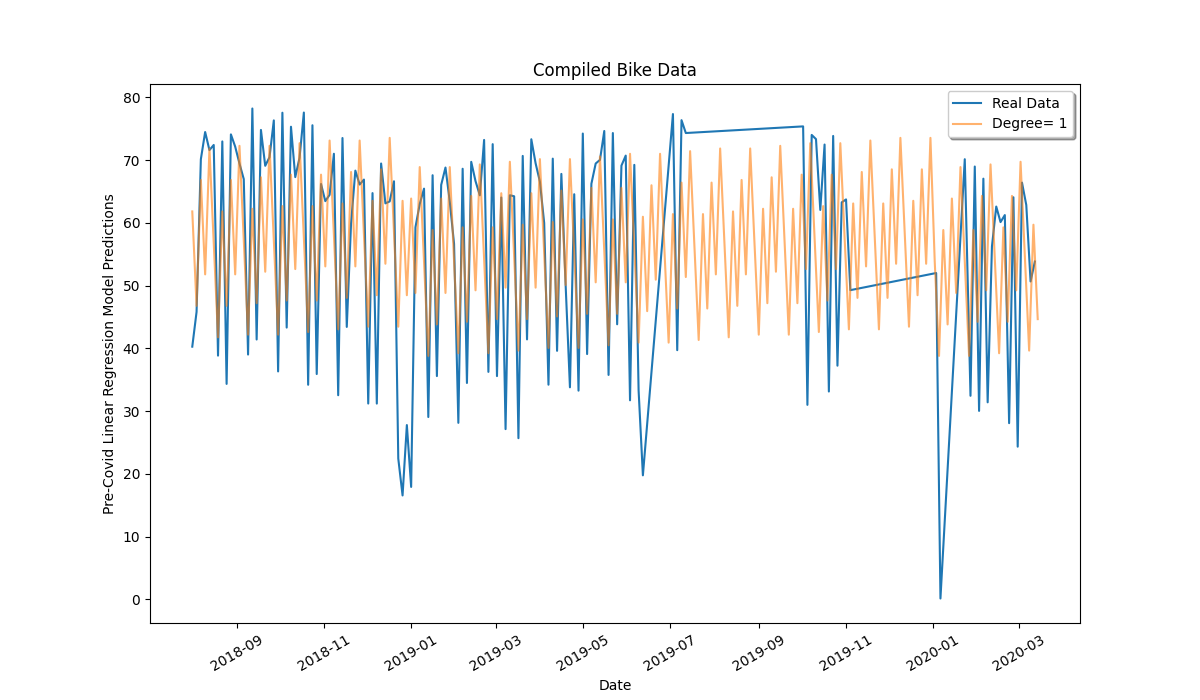
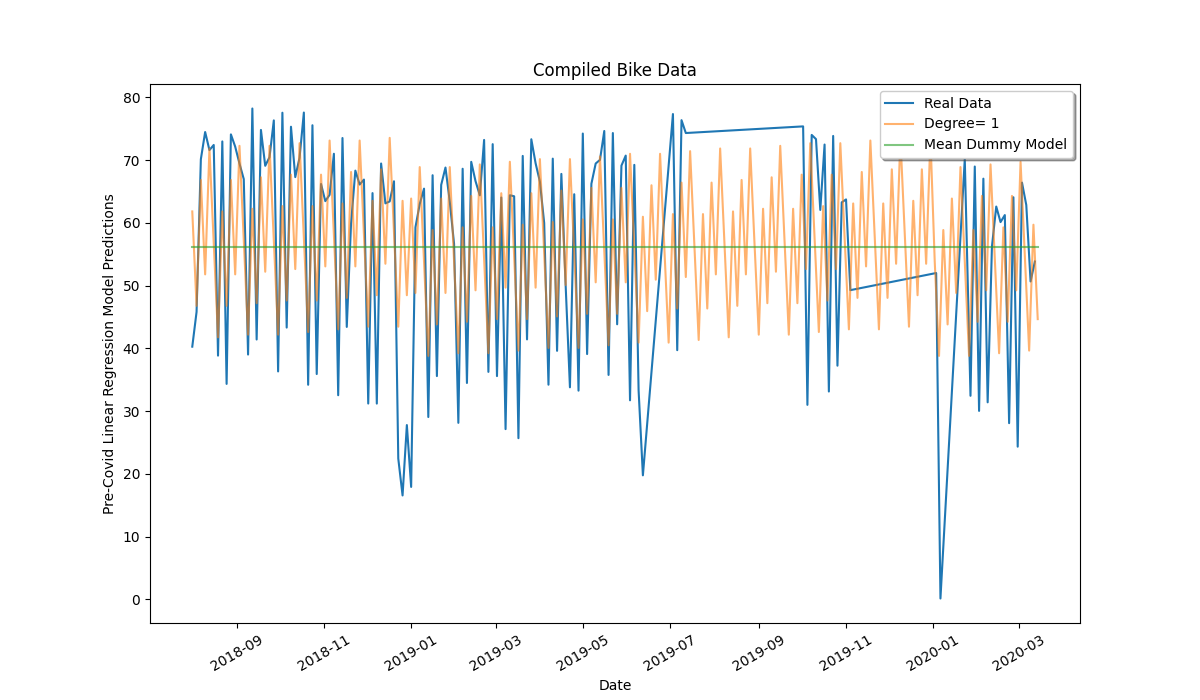
add dummy

Changed region(s): [[0.74, 0.12, 0.8942, 0.24]]

diff --git a/final/main.py b/final/main.py
@@ -3,8 +3,9 @@ import pandas as pd
 import numpy as np
 import matplotlib.pyplot as plt
 import matplotlib.dates as mdates
+from sklearn.dummy import DummyRegressor
+from sklearn.metrics import r2_score
 from sklearn.linear_model import LinearRegression
-from sklearn.model_selection import train_test_split
 from sklearn.preprocessing import PolynomialFeatures
 from readfiles import readFiles
 
@@ -50,6 +51,7 @@ weekDays = pd.Series(weekDays, index = None)
 
 # Split into only precovid data
 precovidBA = dates < "2020-03-15"
+pcDates = dates[precovidBA]
 pcUsages = avgUsages[precovidBA]
 pcMonths = months[precovidBA]
 pcWeekDays = weekDays[precovidBA]
@@ -59,9 +61,7 @@ pcWeekDays = weekDays[precovidBA]
 X = np.column_stack((pcWeekDays,pcMonths))
 
 ## Train and test various models to find best fit parameters
-# Train
-fig, ax = plt.subplots(figsize=(12, 7))
-
+#Create test X's
 range = pd.date_range(start="2018-08-01",end="2020-03-15")
 monthsTest = []
 weekDaysTest = []
@@ -70,10 +70,13 @@ for date in range:
     weekDaysTest.append(date.day_of_week)
 Xtest = np.column_stack((weekDaysTest,monthsTest))
 
+#Remove dates that arent in training for scoring
+dateisInTestingBA = range.isin(pcDates)
 
 degreePoly = [1, 2, 5, 7]
 for degree in degreePoly:
-    plt.plot(dates[precovidBA][::3], pcUsages[::3])
+    #Train and Test
+    plt.plot(pcDates[::3], pcUsages[::3])
     polyX = PolynomialFeatures(degree).fit_transform(np.array(X))
 
     model = LinearRegression()
@@ -82,20 +85,31 @@ for degree in degreePoly:
     polyXTest = PolynomialFeatures(degree).fit_transform(np.array(Xtest))
     ypred = model.predict(polyXTest)
 
+    #Dummy model comparison
+    dr = DummyRegressor(strategy="mean")
+    dr.fit(polyX, pcUsages)
+    ydummy = dr.predict(polyXTest)
+
+    #Plot
     plt.plot(range[::3],ypred[::3], alpha=0.6) #Plot every 3rd day to be able to read graph
+    plt.plot(range[::3],ydummy[::3], alpha=0.6) #Plot every 3rd day to be able to read graph
 
     plt.xticks(rotation=30)
     plt.xlabel("Date")
     plt.ylabel("Pre-Covid Linear Regression Model Predictions")
     stringdegree = "Degree= " + int.__str__(degree)
-    plt.legend(["Real Data", stringdegree], loc='upper right',fancybox=True, shadow=True)
+    plt.legend(["Real Data", stringdegree, "Mean Dummy Model"], loc='upper right',fancybox=True, shadow=True)
     plt.title("Compiled Bike Data")
     stringname = "featuremodel" + int.__str__(degree)
     plt.savefig('./Report/' + stringname)
     plt.show()
 
+    #Score
+    print("Linear model (Degree = ", degree, "):")
+    print(r2_score(pcUsages, ypred[dateisInTestingBA]))
 
-
+    print("Mean Dummy model (Degree = ", degree, "):")
+    print(r2_score(pcUsages, ydummy[dateisInTestingBA]))
 
 
 
